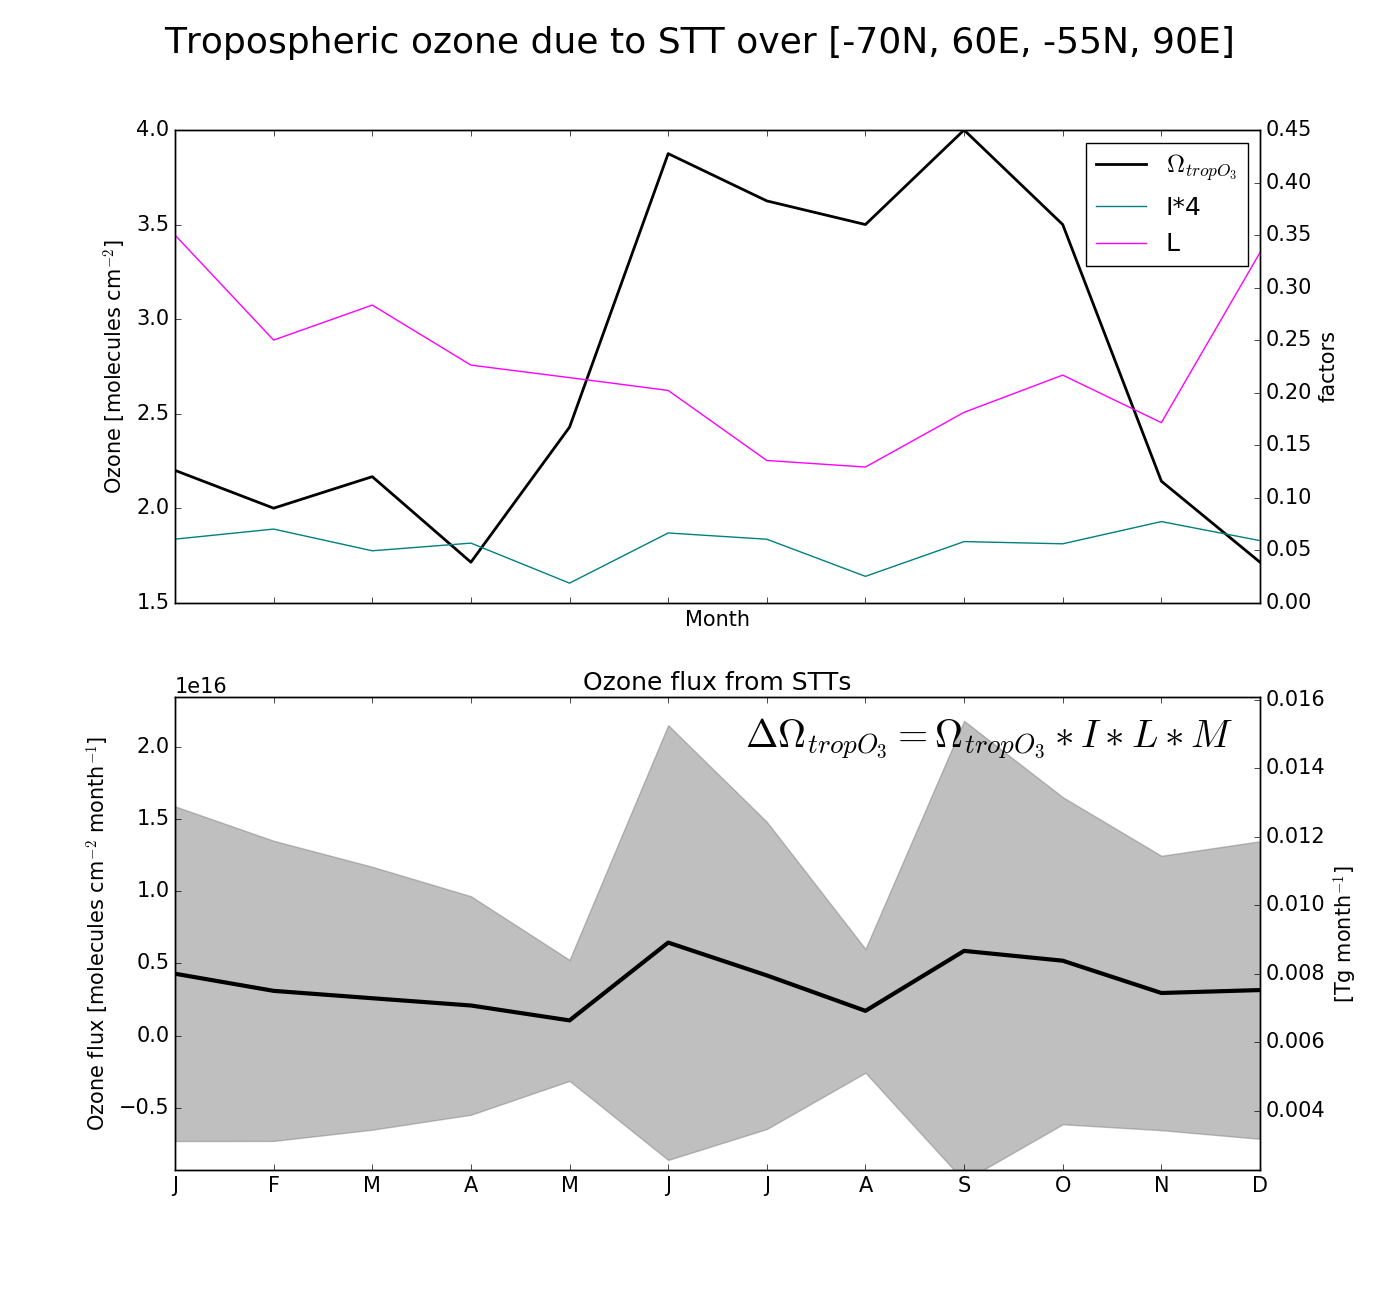
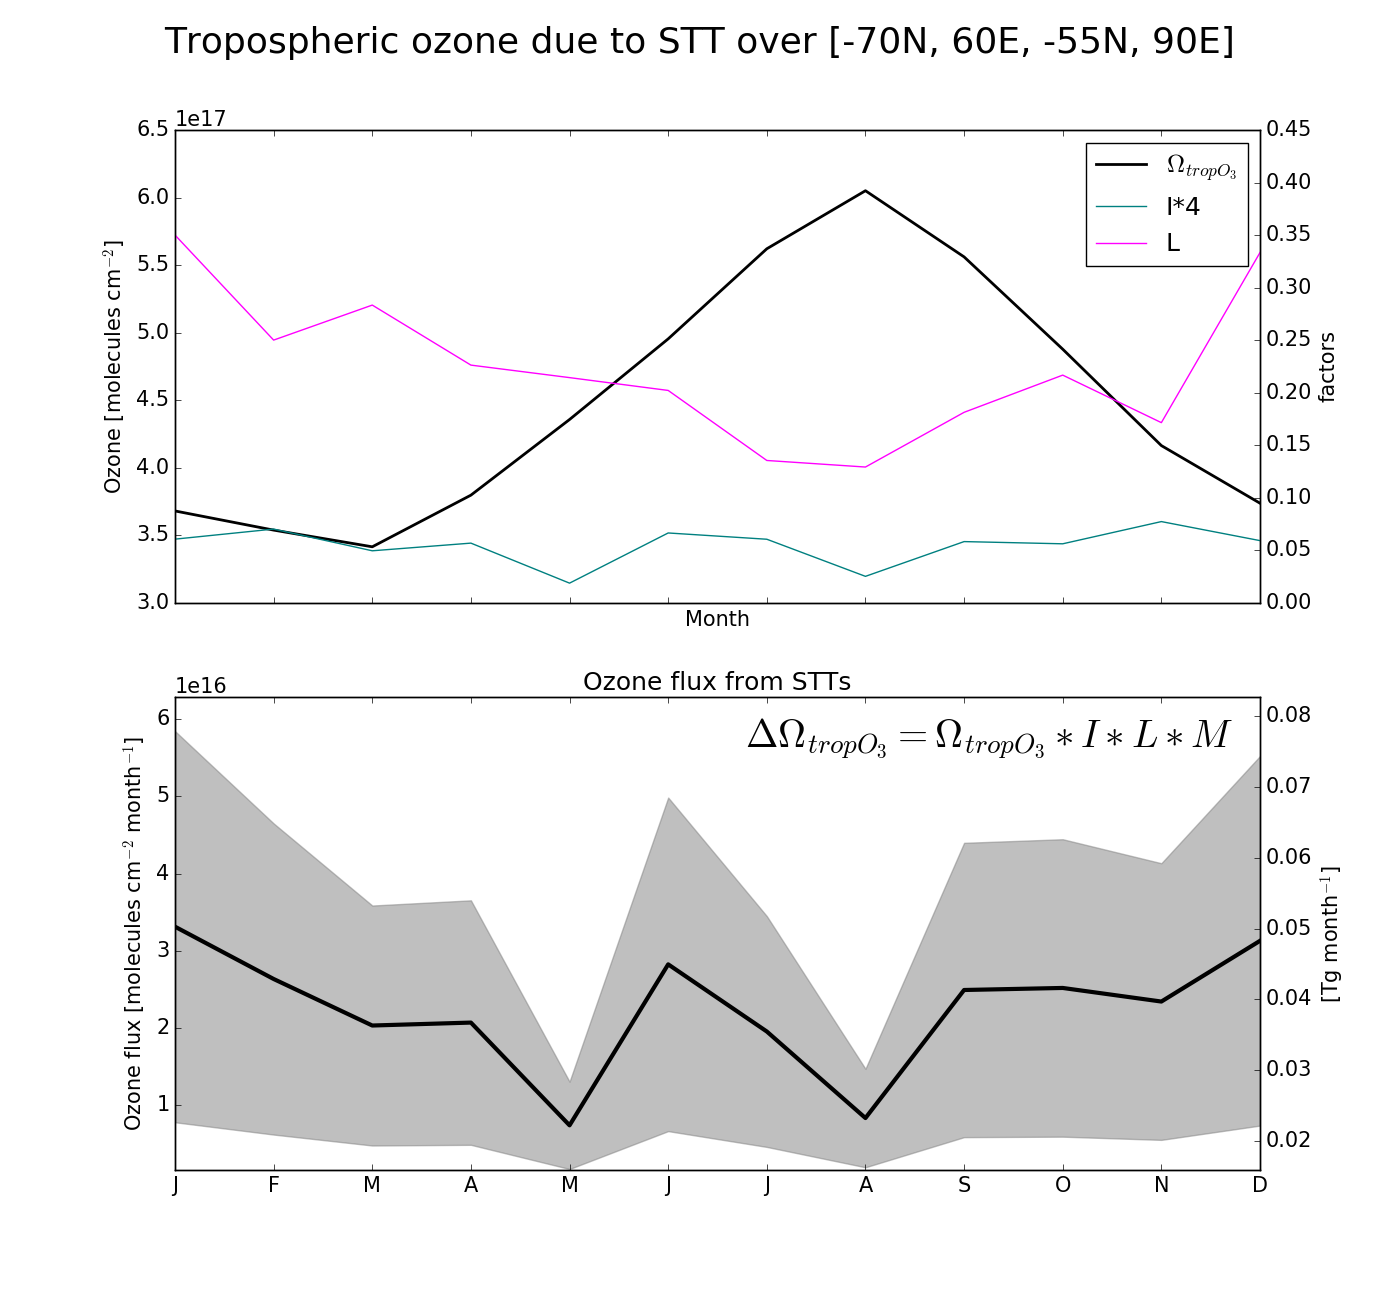
Fixed bracketed estimate

diff --git a/examine_stations.py b/examine_stations.py
@@ -502,9 +502,10 @@ def STT_extrapolation_bracketed(Region):
     '''
     ILMT, flux, flux_range = STT_extrapolation(Region)
     ILT = ILMT[[0,1,3],:]
-    flux = 17.0 * np.nanprod(ILT,axis=0)
-    flux_range[0,:] = 4.0 * flux
-    flux_range[1,:] = 30.0 * flux
+    prod=np.nanprod(ILT,axis=0)
+    flux = 17.0 * prod
+    flux_range[0,:] = 4.0 * prod
+    flux_range[1,:] = 30.0 * prod
     
     return ILT, flux, flux_range
 
@@ -516,7 +517,7 @@ def plot_extrapolation(Region, pltname='images/STT_extrapolation.png', Bracketed
     
     X=range(12)
     if Bracketed:
-        ILMT, flux, flux_range = STT_extrapolation(Region)
+        ILMT, flux, flux_range = STT_extrapolation_bracketed(Region)
         M=np.repeat(17.0,repeats=12)
         GCTropO3=ILMT[2,:]
     else:
@@ -1549,8 +1550,8 @@ if __name__ == "__main__":
     # N W S E regions:
     Region1=[-60, 140, -35, 165] # region for Melb and Macca
     Region2=[-70, 60, -55, 90] # region for Davis
-    plot_extrapolation(Region1,pltname='images/STT_extrapolation_MelbMac.png')
-    plot_extrapolation(Region2,pltname='images/STT_extrapolation_Dav.png')
+    #plot_extrapolation(Region1,pltname='images/STT_extrapolation_MelbMac.png')
+    #plot_extrapolation(Region2,pltname='images/STT_extrapolation_Dav.png')
     plot_extrapolation(Region1,pltname='images/STT_extrapolation_MelbMac_B.png',Bracketed=True)
     plot_extrapolation(Region2,pltname='images/STT_extrapolation_Dav_B.png',Bracketed=True)
     #check_weird_tp(2006)# look at profile of low tp sondes
